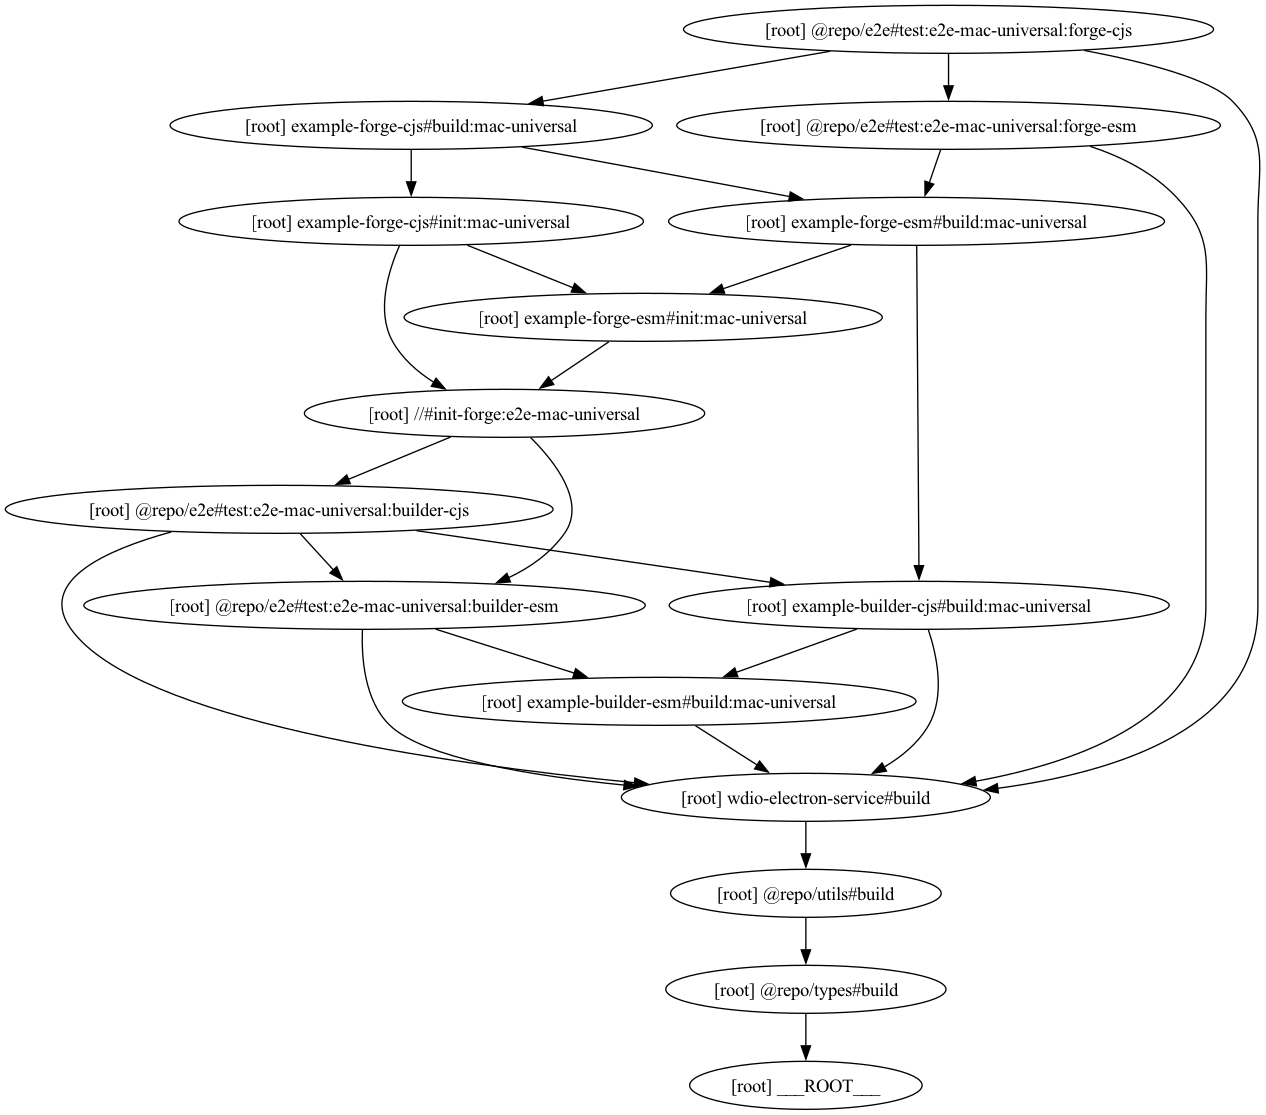
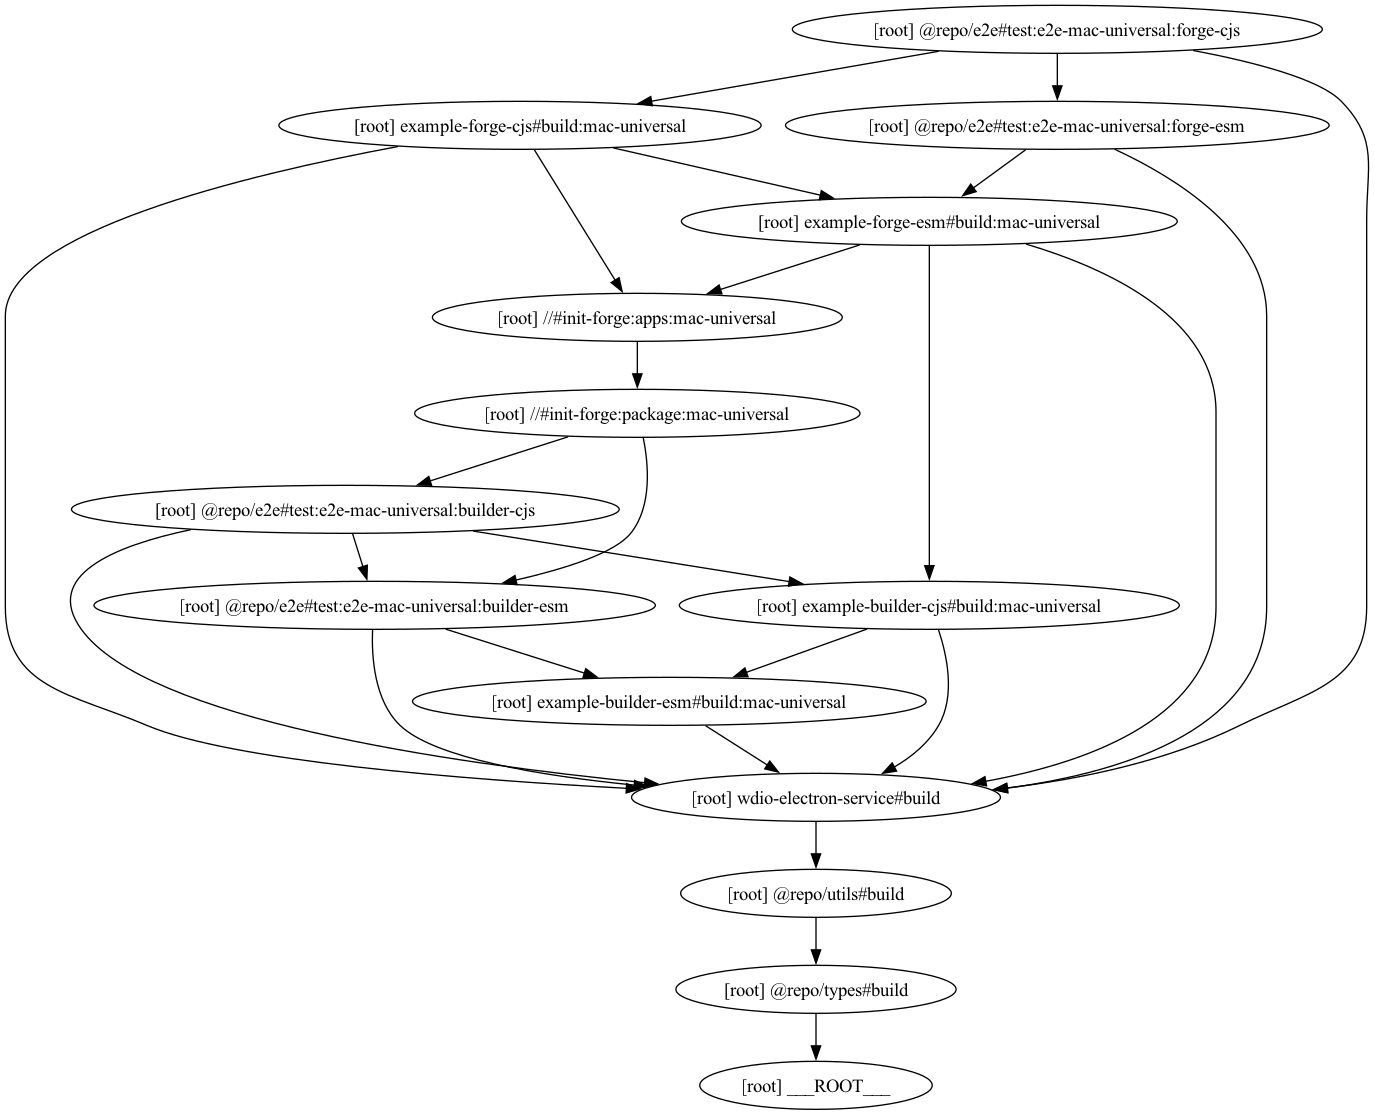
refactor: scripts

diff --git a/scripts/init-forge-apps.ts b/scripts/init-forge-apps.ts
@@ -21,19 +21,21 @@ shell.cd(path.join(__dirname, '..'));
 const packageManager = shell.exec('pnpm pkg get packageManager').stdout.trim();
 shell.exec('pnpm pkg delete packageManager');
 
-// navigate to directory of target app
-shell.cd(path.join(__dirname, '..', 'apps', process.argv[2] || 'forge-esm'));
+for (const app of ['forge-esm', 'forge-cjs']) {
+  // navigate to directory of target app
+  shell.cd(path.join(__dirname, '..', 'apps', app));
 
-// remove any dependencies installed with pnpm
-shell.exec('pnpm clean');
+  // remove any dependencies installed with pnpm
+  shell.exec('pnpm clean');
 
-// delete workspace dependency
-shell.exec('pnpm pkg delete dependencies.wdio-electron-service');
+  // delete workspace dependency
+  shell.exec('pnpm pkg delete dependencies.wdio-electron-service');
 
-// install repo dependencies with yarn
-shell.exec('yarn');
-shell.exec('yarn add file:../../packages/types file:../../packages/utils');
-shell.exec(`yarn add file:./wdio-electron-service-v${packageJson.version}.tgz`);
+  // install repo dependencies with yarn
+  shell.exec('yarn');
+  shell.exec('yarn add file:../../packages/types file:../../packages/utils');
+  shell.exec(`yarn add file:./wdio-electron-service-v${packageJson.version}.tgz`);
+}
 
 // navigate to root directory
 shell.cd(path.join(__dirname, '..'));

diff --git a/scripts/clean-yarn-artifacts.ts b/scripts/clean-yarn-artifacts.ts
@@ -1,0 +1,26 @@
+// This script is used to remove artifacts of the hacky shenanigans employed to get Electron Forge working with pnpm.
+import url from 'node:url';
+import path from 'node:path';
+
+import shell from 'shelljs';
+
+// read dirname
+const __dirname = path.dirname(url.fileURLToPath(import.meta.url));
+
+for (const app of ['forge-esm', 'forge-cjs']) {
+  // navigate to directory of target app
+  shell.cd(path.join(__dirname, '..', 'apps', app));
+
+  // reset the dependencies to the workspace links
+  shell.exec('pnpm pkg set dependencies.wdio-electron-service=workspace:*');
+
+  // delete tgz file
+  shell.rm('*.tgz');
+
+  // remove any yarn artifacts
+  shell.exec('pnpm clean');
+}
+
+// delete the yarn package directory
+shell.cd(path.join(__dirname, '..', 'packages'));
+shell.exec('pnpx shx rm -rf wdio-electron-service-yarn');

diff --git a/scripts/create-yarn-package.ts b/scripts/create-yarn-package.ts
@@ -6,8 +6,9 @@ import fs from 'node:fs';
 import shell from 'shelljs';
 import type { PackageJson } from 'read-package-up';
 
-// read version from main package
 const __dirname = path.dirname(url.fileURLToPath(import.meta.url));
+
+// read package.json
 const packageJson = JSON.parse(
   fs.readFileSync(path.join(__dirname, '..', 'packages', 'wdio-electron-service', 'package.json'), {
     encoding: 'utf-8',
